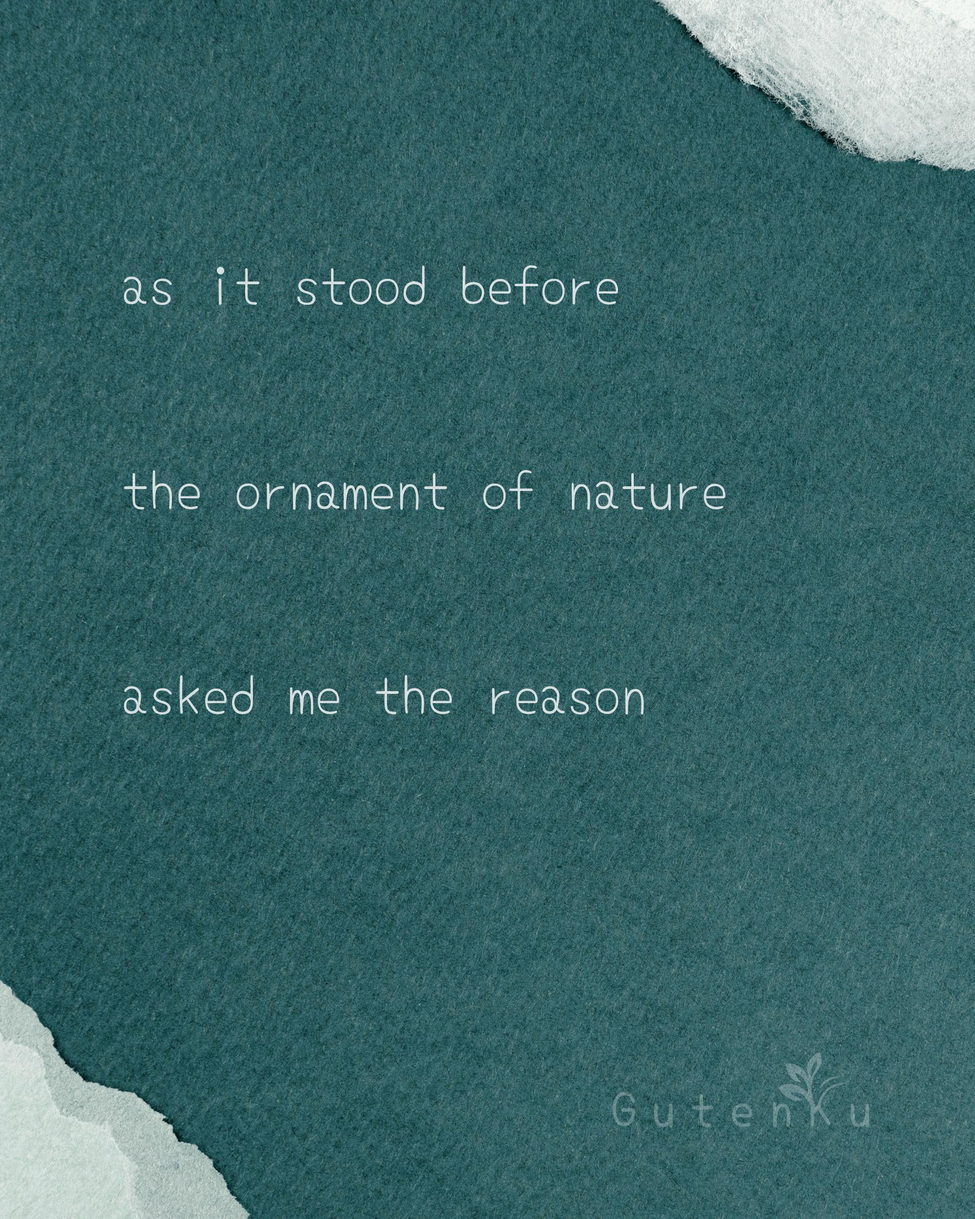
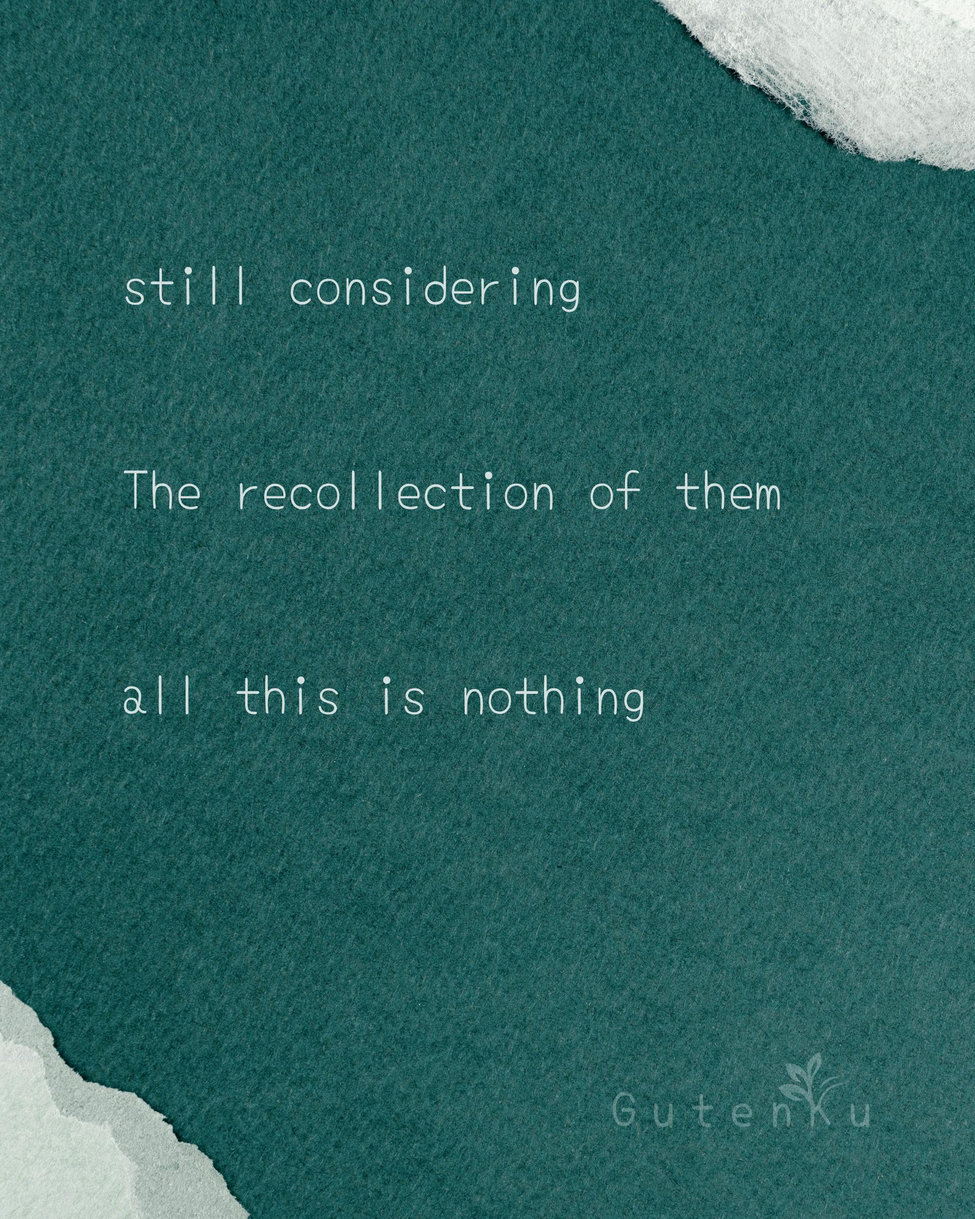
docs(readme): updated daily haiku card

diff --git a/README.md b/README.md
@@ -25,7 +25,7 @@
 <table>
 <tr>
 <td width="300" valign="top">
-<img src="/assets/img/daily_haiku_card.jpg?t=1770336001" width="280" alt="Daily Haiku Card">
+<img src="/assets/img/daily_haiku_card.jpg?t=1770422401" width="280" alt="Daily Haiku Card">
 </td>
 <td valign="top">
 
@@ -33,7 +33,7 @@
 
 The final line, “asked me the reason,” introduces gentle personification. Nature is not passive here; it becomes an interrogator, prompting the speaker to examine their own motives—why they are watching, pausing, or perhaps seeking meaning. The haiku’s power lies in its reversal: instead of the human interpreting nature, nature seems to demand an explanation from the human. This creates a reflective, almost spiritual tone, implying that beauty carries a moral or philosophical challenge: to justify our gaze, our presence, or our relationship with the natural world."\_
 
-— **BotenKu** 📅 _Feb 06, 2026_
+— **BotenKu** 📅 _Feb 07, 2026_
 
 </td>
 </tr>
